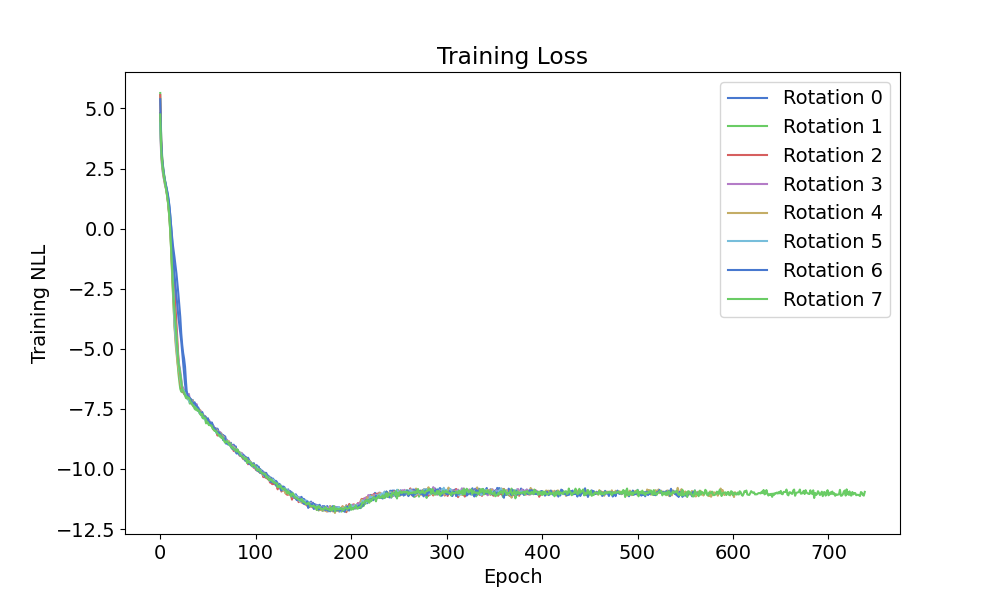
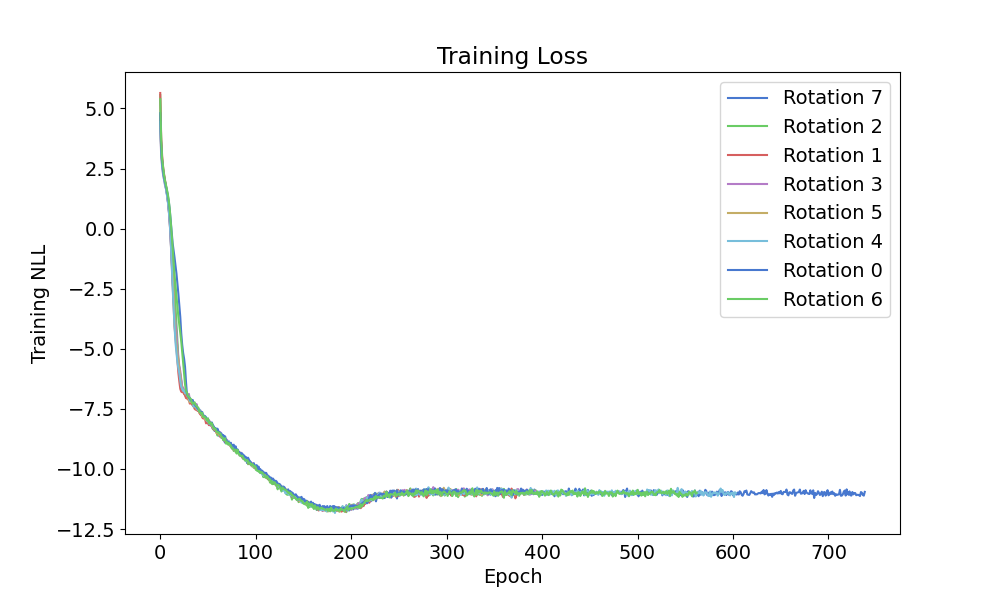
new model test

diff --git a/code/plot.py b/code/plot.py
@@ -1,10 +1,8 @@
 import os
-import glob
 import pickle
 import numpy as np
 import matplotlib.pyplot as plt
-from mesonet_support import extract_station_timeseries, get_mesonet_folds
-import keras
+# from mesonet_support import extract_station_timeseries, get_mesonet_folds
 
 from parser import check_args, create_parser
 
@@ -132,16 +130,37 @@ def get_matching_y_true(y_true, nstations=68, test_stations=17):
     y_pred = y_true_matrix[:, :test_stations]  # assuming first 17 stations are test
     return y_pred.flatten()
 
+import numpy as np
+
+def average_every_four(arr):
+    """
+    Given an array of shape (4 * N,), returns a new array of shape (N,)
+    where each element is the mean of 4 consecutive values in the input.
+    """
+    arr = np.asarray(arr)
+    assert arr.ndim == 1, "Input array must be 1-dimensional"
+    assert len(arr) % 4 == 0, "Array length must be divisible by 4"
+
+    reshaped = arr.reshape(-1, 4)  # shape (N, 4)
+    return np.mean(reshaped, axis=1)  # shape (N,)
+
+
 def plot_param_scatter(all_results):
-    y_true = np.concatenate([
-        get_matching_y_true(r['y_true'], nstations=68, test_stations=17)
-        for r in all_results
-    ])
+    y_true = np.concatenate([r['y_true'] for r in all_results])
+
+    print("mu shape:", all_results[0]['mu'].shape)
+    print("y_true shape:", all_results[0]['y_true'].shape)
+    
     mu = np.concatenate([r['mu'] for r in all_results])
     std = np.concatenate([r['std'] for r in all_results])
     skew = np.concatenate([r['skew'] for r in all_results])
     tail = np.concatenate([r['tail'] for r in all_results])
 
+    mu = average_every_four(mu)
+    std = average_every_four(std)
+    skew = average_every_four(skew)
+    tail = average_every_four(tail)
+    
     print(mu.shape, std.shape, skew.shape, tail.shape, y_true.shape)
 
     def scatter_plot(x, y, xlabel, ylabel, title, filename):
@@ -169,13 +188,16 @@ def plot_mad_bars(results):
     rotations = [r['rotation'] for r in results]
     mad_mean = [r['mad_mean'] for r in results]
     mad_median = [r['mad_median'] for r in results]
+    mad_zero = [r['mad_zero'] for r in results]
 
     x = np.arange(len(rotations))
+    bar_width = 0.10
     width = 0.35
 
     plt.figure()
-    plt.bar(x - width/2, mad_mean, width, label="Mean Prediction")
-    plt.bar(x + width/2, mad_median, width, label="Median Prediction")
+    plt.bar(x - width/2, mad_median, bar_width, label="MAD Median")
+    plt.bar(x, mad_mean, bar_width, label="MAD Mean")
+    plt.bar(x + width/2, mad_zero, bar_width, label="MAD Zero")
     plt.xticks(x, [f"R{r}" for r in rotations])
     plt.ylabel("MAD")
     plt.title("Figure 4: MAD Across Rotations")
@@ -194,7 +216,7 @@ if __name__ == "__main__":
     all_results = load_results(["./models/exp_good/"])
 
     print("Generating Figure 1...")
-    plot_loss_curves(all_results)
+    # plot_loss_curves(all_results)
 
     print("Generating Figure 2...")
     plot_timeseries_example(args.dataset, 0, all_results[0], station_index=0, nstations=17)

diff --git a/code/main.py b/code/main.py
@@ -125,7 +125,7 @@ def execute_exp(args, multi_gpus:int=1):
         print('Building network')
 
     n_inputs = train_x.shape[1]
-    d_output = 4
+    d_output = 1
 
     n_output = [d_output for _ in range(SinhArcsinh.num_params())]
 
@@ -150,7 +150,6 @@ def execute_exp(args, multi_gpus:int=1):
 
     # Optimizer
     opt = keras.optimizers.Adam(learning_rate=args.lrate, clipnorm=1.0, amsgrad=False)
-
     
     metrics = [
         WeightedMeanAbsoluteDifferenceMetric(name="MAD_median"),
